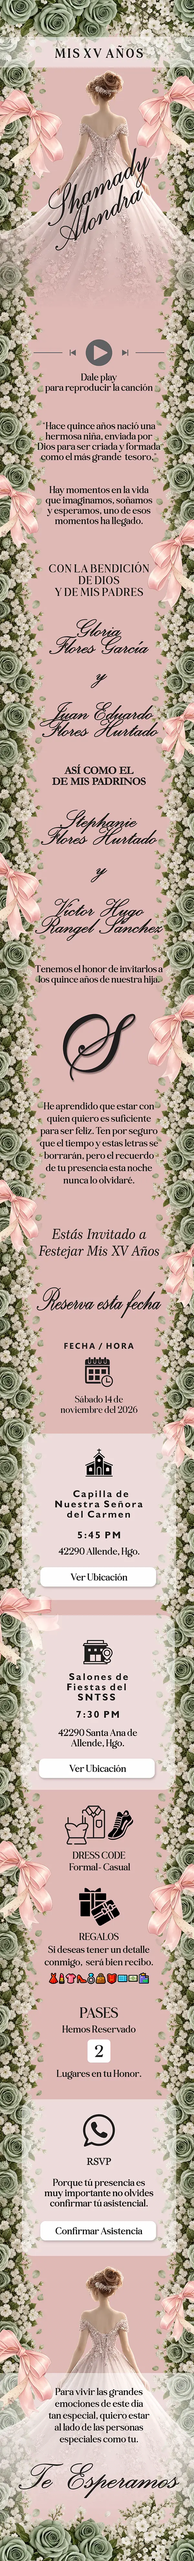
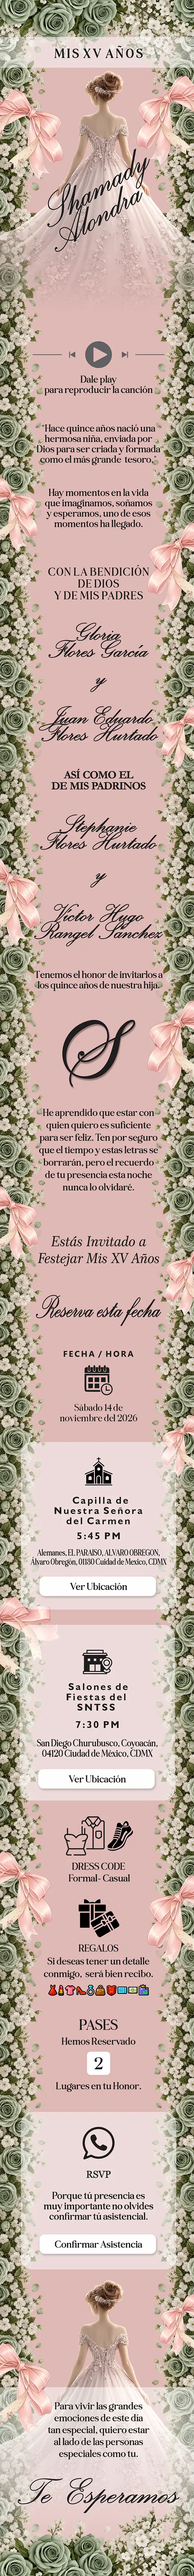
asd
asd

Changed region(s): [[0.0, 0.0, 1.0, 1.0], [0.45, 0.3427, 0.48, 0.3739]]

diff --git a/index.html b/index.html
@@ -241,7 +241,7 @@ audio.volume = 0.5;
 
 
 
-var targetDate = new Date("Nov 29, 2026 20:00:00").getTime();
+var targetDate = new Date("Nov 14, 2026 20:00:00").getTime();
 var countdownTimer = countdown(
     targetDate,
     function(ts) {
